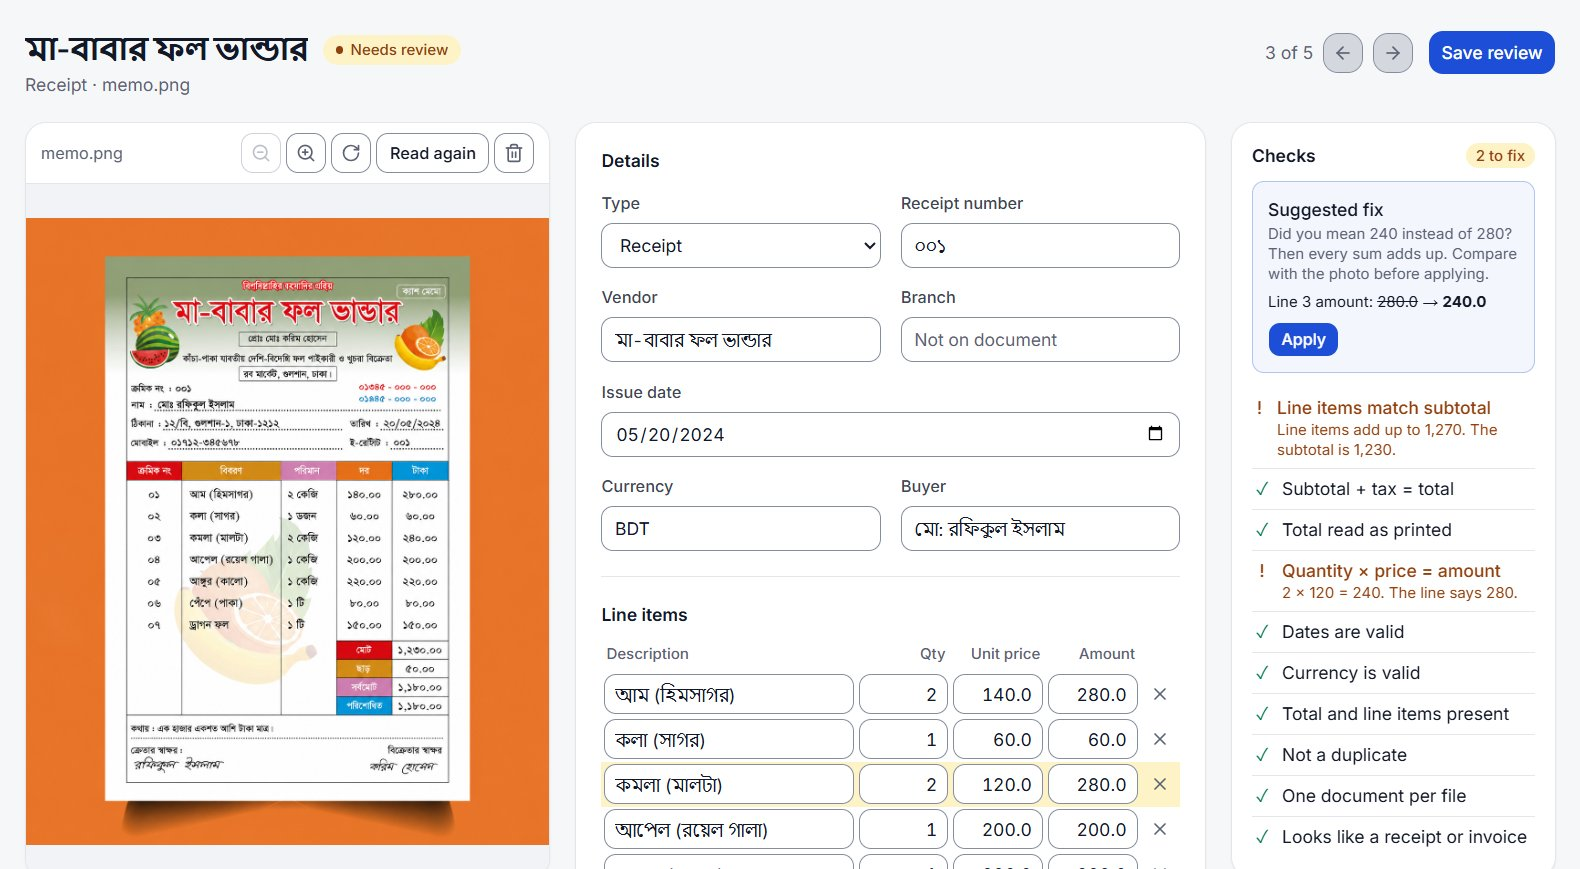
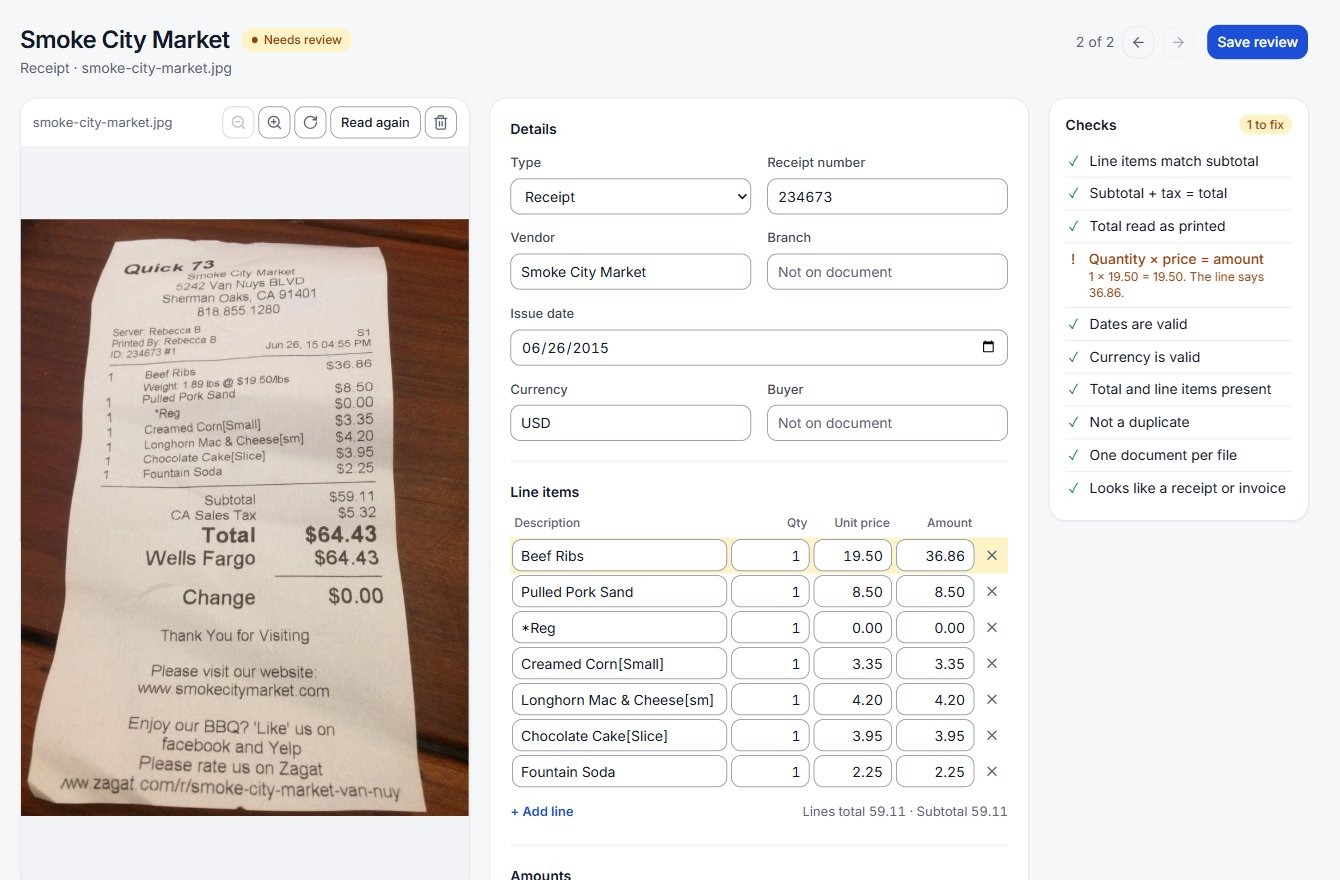
Landing: review screenshot of an English receipt (Smoke City Market, CC0) where the check catches a misread weight

diff --git a/web/src/app/page.tsx b/web/src/app/page.tsx
@@ -138,7 +138,7 @@ export default function Home() {
           <div className="mx-auto max-w-6xl">
             <h2 className="display text-[clamp(30px,3.6vw,44px)]">See what needs a fix</h2>
             <p className="mt-4 max-w-2xl text-lg text-foreground/75">
-              This Bangla cash memo has one misread amount. Crosscheck flags it and suggests the fix. You compare and click Apply.
+              The AI read the beef ribs as 1 item. The receipt says 1.89 lbs. The math check catches it. You fix one field.
             </p>
             <div className="mt-11 overflow-hidden rounded-xl border bg-card shadow-[0_18px_40px_-18px_rgba(17,24,39,0.35)]">
               <div className="flex gap-1.5 border-b bg-background px-4 py-3" aria-hidden>
@@ -146,8 +146,8 @@ export default function Home() {
                 <span className="size-2.5 rounded-full bg-[#E3E6EB]" />
                 <span className="size-2.5 rounded-full bg-[#E3E6EB]" />
               </div>
-              <Image src="/review-screen.jpg" width={1580} height={869} className="h-auto w-full"
-                alt="The review screen: the memo photo, its fields, and a suggested fix of 240 instead of 280 for one line" />
+              <Image src="/review-screen.jpg" width={1340} height={880} className="h-auto w-full"
+                alt="The review screen: a Smoke City Market receipt next to its fields. The beef ribs line is flagged because 1 x 19.50 is not 36.86." />
             </div>
           </div>
         </section>
